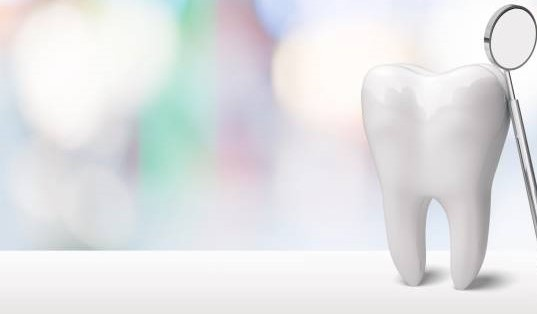
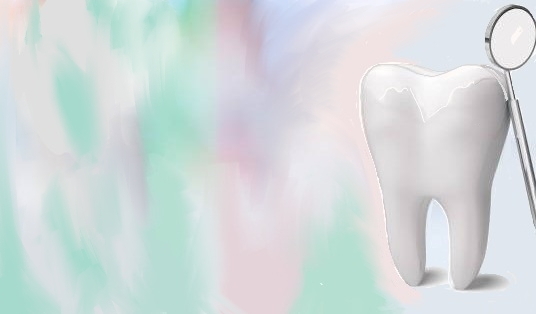
Update & style backgrounds

diff --git a/dentist/src/components/header/header.scss b/dentist/src/components/header/header.scss
@@ -1,14 +1,14 @@
 .section-1 {
-  min-height: 115vh;
+  min-height: 120vh;
   display: flex;
   align-items: center;
   font-family: sans-serif;
   position: relative;
-  background:  var(--sideBar-bg)  url("../../assets/images/bg.jpg");
+  // background:  var(--sideBar-bg)  url("../../assets/images/bg.jpg");
 
-  background-size: cover;
-  // opacity: 0.8;
-  background-blend-mode: luminosity;
+  // background-size: cover;
+  // // opacity: 0.8;
+  // background-blend-mode: luminosity;
 }
 
 //header
@@ -49,7 +49,7 @@
   font-weight: bold;
   margin-top:5px;
  
-  color: var(var(--typical-color));
+  color: var(--primary-text-color);
 
 }
 
@@ -79,18 +79,20 @@
   // // opacity: 0.8;
   // background-blend-mode: luminosity;
   align-content: center;
-  font-size: 2.2em;
-  line-height: 3.75rem;
+  font-size: 2.1em;
+  line-height: 3.4rem;
   letter-spacing: 2px;
   font-weight: 600;
-  margin-top: -35%;
+  margin-top: -38.5%;
   margin-left: 63%;
-  margin-bottom: 60px;
+  margin-bottom: 40px;
   color: var(--primary-text-color);
+  text-shadow: 2px 2px 2px black;
   // font-family: Georgia, 'Times New Roman', Times, serif;
-  // border: 3px solid var(--color-tem);
+  border: 3px solid var(--color-tem);
   text-align: center;
   padding: 10px;
+  background:  var(--sideBar-bg)
 }
 
 //  contact button
@@ -103,7 +105,7 @@
     position: relative;
     animation: fadeInAnimation 1s 1.8s backwards;
     margin-left: 85%;
-    margin-top: -3.7%;
+    margin-top: -3.4%;
 }
 
 //  .contact-button-home {

diff --git a/dentist/src/data/data.js b/dentist/src/data/data.js
@@ -11,27 +11,27 @@ import { RiTwitterFill, RiInstagramFill } from 'react-icons/ri'
 // sidebar menu list and icons
 const sideBarMenu = [
   {
-    text: 'Home',
+    text: 'HOME',
     icon: <AiFillHome className="link-icon" />,
     url: '/',
   },
   {
-    text: 'About Us',
+    text: 'ABOUT',
     icon: <RiContactsFill className="link-icon" />,
     url: '/about',
   },
   {
-    text: 'Services',
+    text: 'SERVICES',
     icon: <MdMedicalServices className="link-icon" />,
     url: '/service',
   },
   {
-    text: 'Contacts',
+    text: 'CONTACTS',
     icon: <MdEmail className="link-icon" />,
     url: '/contact',
   },
   {
-    text: 'Patients',
+    text: 'PATIENTS',
     icon: <IoMdDownload className="link-icon" />,
     url: '/patient',
   },

diff --git a/dentist/src/components/sidebar/sidebar.scss b/dentist/src/components/sidebar/sidebar.scss
@@ -1,8 +1,8 @@
  .aside {
-  width: 170px;
+  width: 150px;
   height: 100%;
   position: fixed;
-  background: var(--sideBar-bg);
+  background: var(--typical-color);
   top: 0;
   left: 0;
   z-index: 3;
@@ -15,7 +15,7 @@
     height: 181px; //logo bax
     top: 0;
     left: 0;
-    background-color: var(--typical-color);
+    background-color: var(  --sideBar-bg);
   }
 }
 // show sidebar when you click on the icon menu
@@ -60,6 +60,7 @@
   right: 40px;
   top: 40px;
   color: var(--primary-color);
+  
   font-size: 1.8rem;
   cursor: pointer;
   display: none;
@@ -82,7 +83,7 @@ ul.side-link li {
   line-height: 2.8;
   position: relative;
   // background-color: #fabb99;
-  padding-left: 10px;
+  padding-left: 1px;
 }
 .nav__links {
   display: block;

diff --git a/dentist/src/components/header/Header.jsx b/dentist/src/components/header/Header.jsx
@@ -30,7 +30,7 @@ const Header = () => {
         
 
           <img src={ headerImg } className="headerImg" alt="Dentist office  logo" width='60%' />
-          <h3>Complete <br /> family dental <br /> care for <br /> healthy & beautiful smiles.</h3>
+          <h3>COMPLETE <br /> FAMILY DENTAL<br /> CARE FOR <br /> HEALTHY <br />AND  <br />BEAUTIFUL SMILES.</h3>
           
           
       </main>

diff --git a/dentist/src/pages/about/about.scss b/dentist/src/pages/about/about.scss
@@ -21,6 +21,7 @@
   margin-bottom: 15px;
   text-align: center;
   text-shadow: 2px 2px 2px black;
+  color: var(--color-tem);
 }
 
 .drAhn-Img {

diff --git a/README.md b/README.md
@@ -52,10 +52,10 @@
 * 12:10pm - 03:00pm -- Reserach & working on code
 * 04:00pm - 06:50pm -- Reserach & working on code
 
-#### 12/12/2022 ~
+#### 12/12/2022 ~9hrs
 * 10:37am -  02:19pm -- Reserach & working on code
 * 3:30pm - 06:18pm -- Reserach & working on code
-08:30pm - -- Reserach & working on code
+* 08:30pm - 11:04pm -- Reserach & working on code
 
 ## Technologies Used
 
